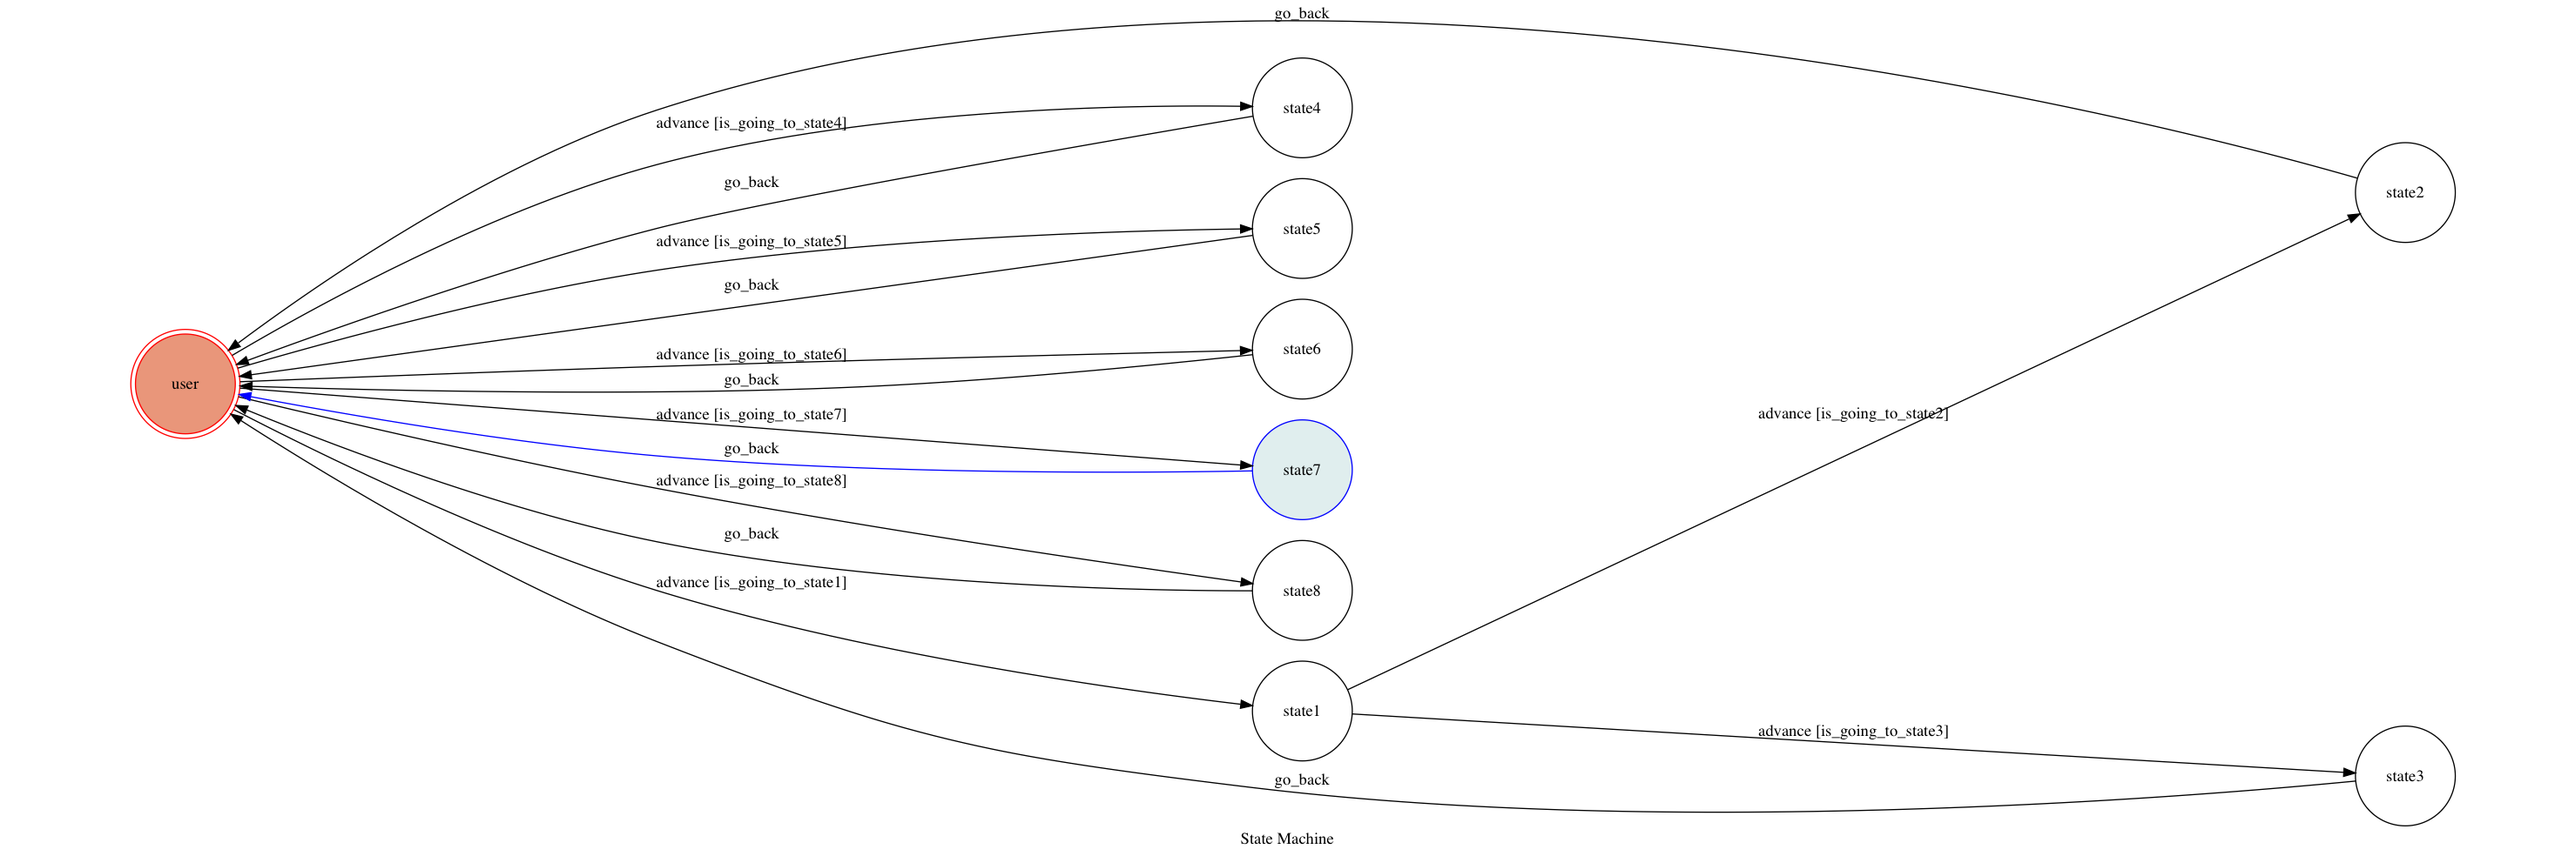
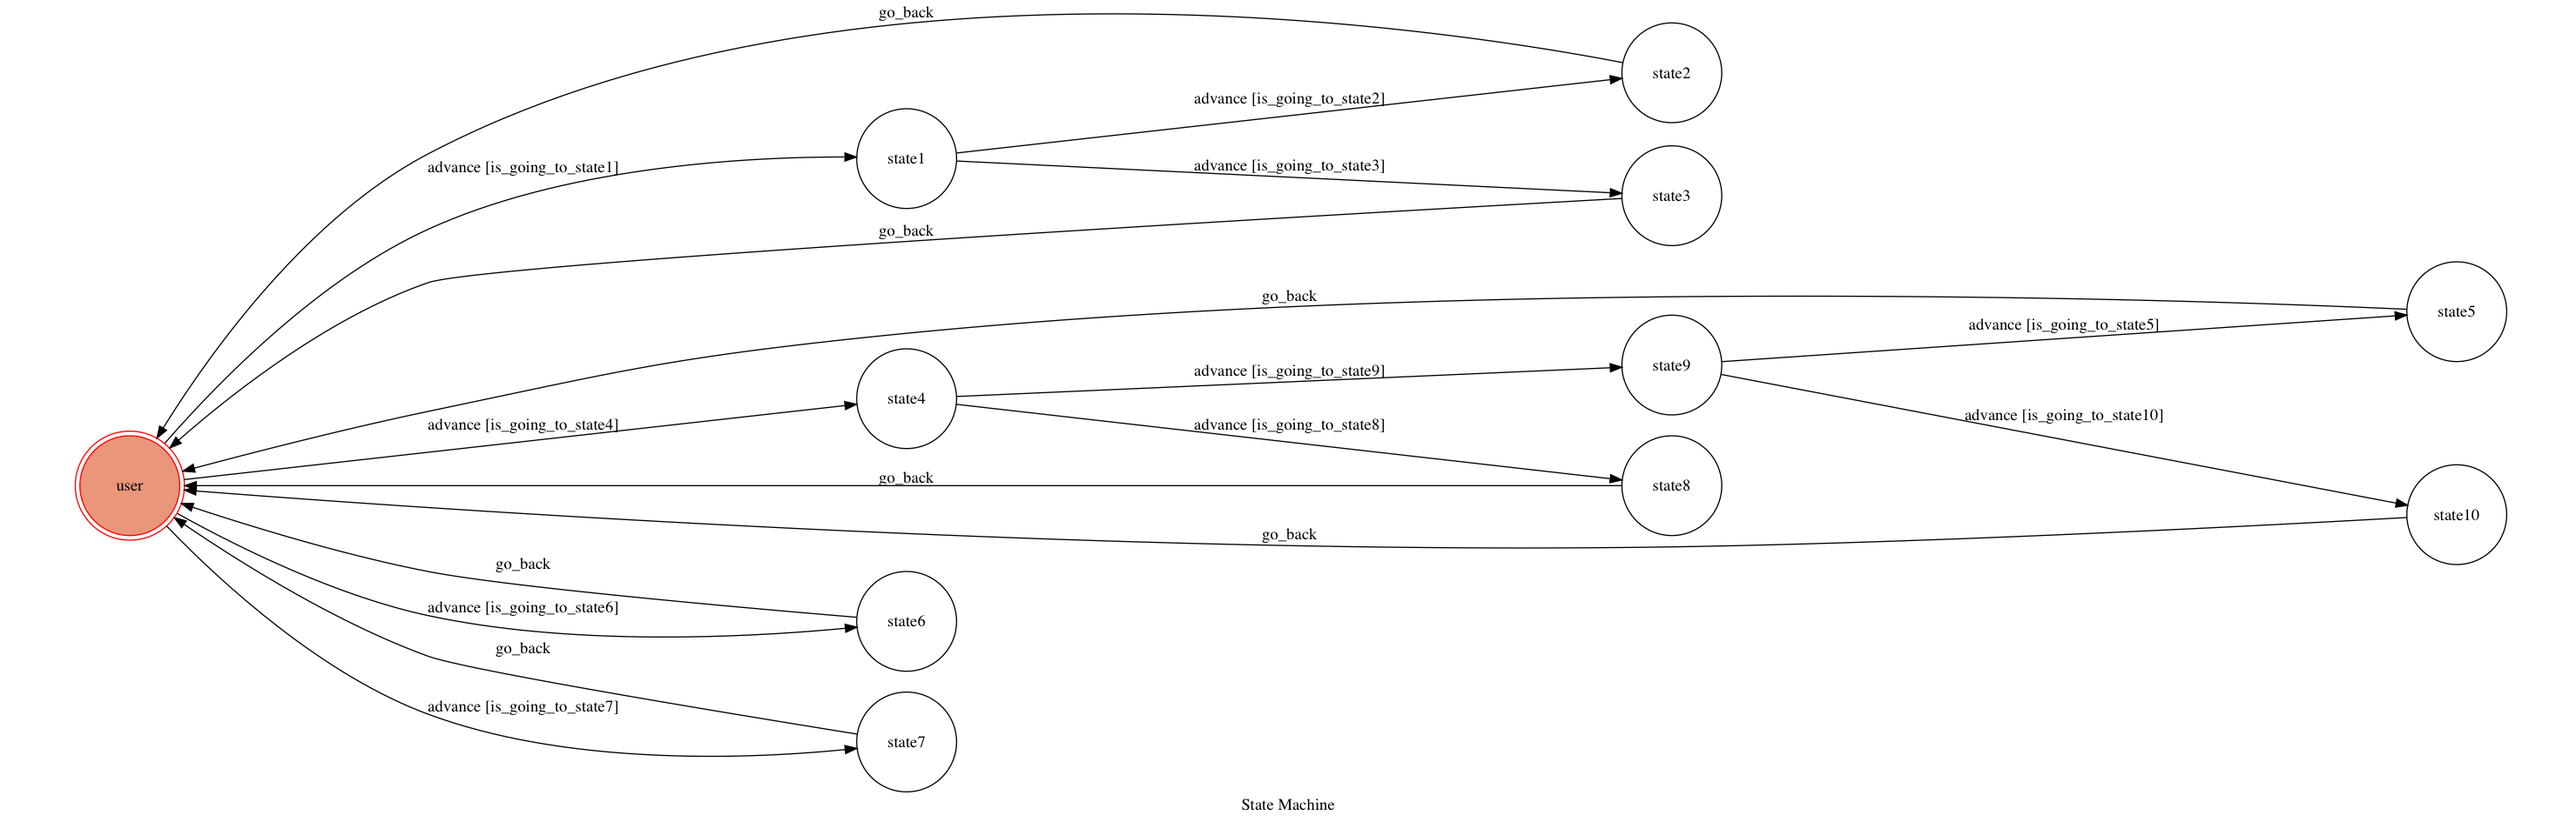
Image allowed and crelwers

diff --git a/fsm.py b/fsm.py
@@ -1,7 +1,12 @@
 from transitions.extensions import GraphMachine
+from fbmq import Page, Attachment, Template, QuickReply
+import requests
+from bs4 import BeautifulSoup
 
-from utils import send_text_message
[1 lines of base64/hex data omitted]
 
+page = Page(ACCESS_TOKEN)
+r = requests.get('https://tw.yahoo.com/')
 
 class TocMachine(GraphMachine):
     def __init__(self, **machine_configs):
@@ -37,13 +42,13 @@ class TocMachine(GraphMachine):
     def is_going_to_state5(self, event):
         if event.get("message"):
             text = event['message']['text']
-            return text.lower() == 'go to state5'
+            return text.lower() == '1'
         return False
 
     def is_going_to_state6(self, event):
         if event.get("message"):
             text = event['message']['text']
-            return text.lower() == 'go to state6'
+            return text.lower() == '即時新聞'
         return False
 
     def is_going_to_state7(self, event):
@@ -55,80 +60,121 @@ class TocMachine(GraphMachine):
     def is_going_to_state8(self, event):
         if event.get("message"):
             text = event['message']['text']
-            return text.lower() == '幾歲'
+            return text.lower() == '1'
         return False
 
+    def is_going_to_state9(self, event):
+        if event.get("message"):
+            text = event['message']['text']
+            return text.lower() == '2'
+        return False
+
+    def is_going_to_state10(self, event):
+        if event.get("message"):
+            text = event['message']['text']
+            return text.lower() == '2'
+        return False
+########
 
     def on_enter_state1(self, event):
         print("I'm entering state1")
 
         sender_id = event['sender']['id']
-        responese = send_text_message(sender_id, "請問您有什麼問題：\n(1)沒事\n(2)不想上課\n請回覆1或2。")
-
+        page.send(sender_id, "請問您有什麼問題：\n(1)沒事\n(2)不想上課\n請回覆1或2。")
+###########
 
     def on_enter_state2(self, event):
         print("I'm entering state2")
 
         sender_id = event['sender']['id']
-        send_text_message(sender_id, "你好無聊><")
+        page.send(sender_id, "你好無聊><")
         self.go_back()
 
     def on_exit_state2(self):
         print('Leaving state2')
-
+###########
     def on_enter_state3(self, event):
         print("I'm entering state3")
 
         sender_id = event['sender']['id']
-        responese = send_text_message(sender_id, "不行喔！給我去上課！")
+        page.send(sender_id,Attachment.Image("https://i.imgur.com/syy1Cu4.jpg"))
+        page.send(sender_id, "不行喔！給我去上課！")
         self.go_back()
 
     def on_exit_state3(self):
         print('Leaving state3')
-
+############
     def on_enter_state4(self, event):
         print("I'm entering state4")
 
         sender_id = event['sender']['id']
-        responese = send_text_message(sender_id, "哈囉～我叫宋金操，目前是一名大學生")
-        self.go_back()
+        page.send(sender_id, "哈囉～我叫宋金操，目前是一名大學生\n你可以透過輸入以下數字來更瞭解我喔!:\n(1) 聯絡資料。\n(2) 想了解別人\n ")
 
-    def on_exit_state4(self):
-        print('Leaving state4')
-
+#############
     def on_enter_state5(self, event):
         print("I'm entering state5")
 
         sender_id = event['sender']['id']
-        responese = send_text_message(sender_id, "I'm entering state5")
-        self.go_back()
+        page.send(sender_id, "抱歉沒有喔～")
+        self.go_back()        
 
     def on_exit_state5(self):
         print('Leaving state5')
-
+#############
     def on_enter_state6(self, event):
         print("I'm entering state6")
-
+        i = 0
         sender_id = event['sender']['id']
-        responese = send_text_message(sender_id, "I'm entering state6")
+        # 確認是否下載成功
+        if r.status_code == requests.codes.ok:
+        # 以 BeautifulSoup 解析 HTML 程式碼
+            soup = BeautifulSoup(r.text, 'html.parser')
+        # 以 CSS 的 class 抓出各類頭條新聞
+            stories = soup.find_all('a', class_='story-title')
+            for s in stories:
+                i += 1
+        # 新聞標題
+                page.send(sender_id,"標題：" + s.text)
+        # 新聞網址
+                page.send(sender_id,"網址：" + s.get('href'))
+                if i == 4:
+                    break
         self.go_back()
 
     def on_exit_state6(self):
         print('Leaving state6')
-
+##############
     def on_enter_state7(self, event):
         print("I'm entering state6")
 
         sender_id = event['sender']['id']
-        responese = send_text_message(sender_id, "希望你能繼續保持下去～加油！")
+        page.send(sender_id,Attachment.Image("https://i.imgur.com/t56acky.jpg"))
+        page.send(sender_id, "希望你能繼續保持下去～加油！")
         self.go_back()
-
+############
     def on_enter_state8(self, event):
         print("I'm entering state8")
 
         sender_id = event['sender']['id']
-        responese = send_text_message(sender_id, "目前21喔～")
+        page.send(sender_id, "目前21歲\n臉書: https://www.facebook.com/canry.dermawan \nIG: https://www.instagram.com/canry41341/?hl=zh-tw")
         self.go_back()
 
-    def on_exit_state6(self):
+    def on_exit_state8(self):
         print('Leaving state8')
+########
+    def on_enter_state9(self, event):
+        print("I'm entering state9")
+        
+        sender_id = event['sender']['id']
+        page.send(sender_id, "是否想要知道其他人？\n(1)是\n(2)否")
+        
+######
+    def on_enter_state10(self, event):
+        print("I'm entering state10")
+
+        sender_id = event['sender']['id']
+        page.send(sender_id, "很好你很乖")
+        self.go_back()
+
+    def on_exit_state10(self):
+        print('Leaving state10')

diff --git a/app.py b/app.py
@@ -4,6 +4,7 @@ from fsm import TocMachine
 
 
 VERIFY_TOKEN = "123"
+
 machine = TocMachine(
     states=[
         'user',
@@ -14,7 +15,9 @@ machine = TocMachine(
         'state5',
         'state6',
         'state7',
-        'state8'
+        'state8',
+        'state9',
+        'state10'
     ],
     transitions=[
         {
@@ -40,7 +43,7 @@ machine = TocMachine(
             'conditions': 'is_going_to_state4'
         },{
             'trigger': 'advance',
-            'source': 'user',
+            'source': 'state9',
             'dest': 'state5',
             'conditions': 'is_going_to_state5'
         },{
@@ -55,19 +58,29 @@ machine = TocMachine(
             'conditions': 'is_going_to_state7'
         },{
             'trigger': 'advance',
-            'source': 'user',
+            'source': 'state4',
             'dest': 'state8',
             'conditions': 'is_going_to_state8'
+        },{
+            'trigger': 'advance',
+            'source': 'state4',
+            'dest': 'state9',
+            'conditions': 'is_going_to_state9'
+        },{
+            'trigger': 'advance',
+            'source': 'state9',
+            'dest': 'state10',
+            'conditions': 'is_going_to_state10'
         },{
             'trigger': 'go_back',
             'source': [
                 'state8',
                 'state2',
                 'state3',
-                'state4',
                 'state5',
                 'state6',
-                'state7'
+                'state7',
+                'state10'
             ],
             'dest': 'user'
         },
